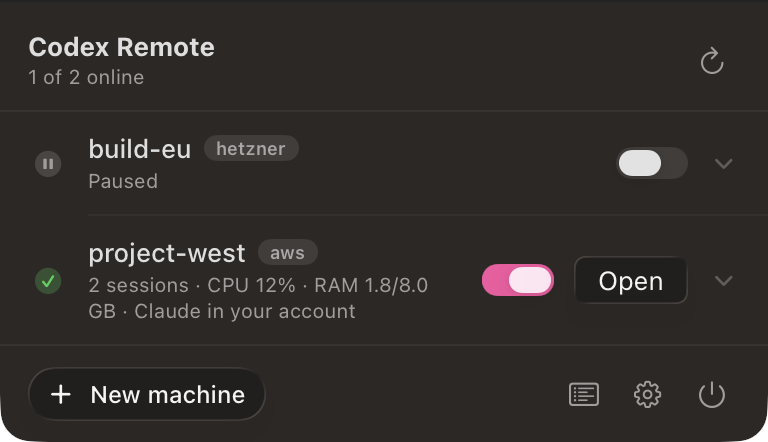
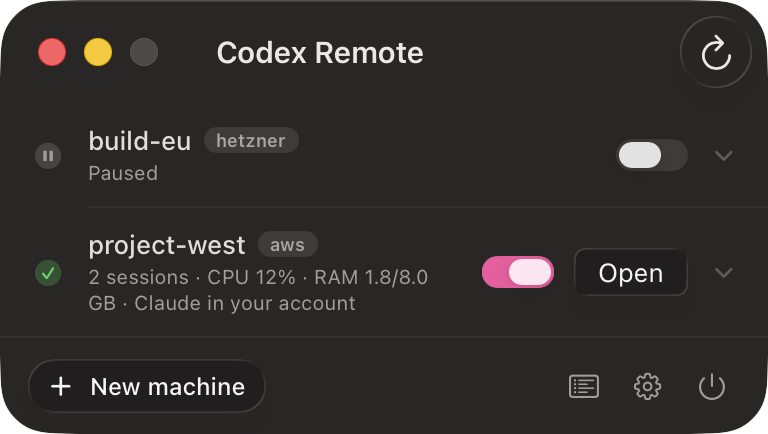
Use native title bar in standalone panel

diff --git a/site/index.html b/site/index.html
@@ -372,7 +372,7 @@ figcaption b { font-weight: 600; color: var(--ink); }
     </div>
 
     <figure>
-      <img src="img/01-panel.png" width="768" height="442"
+      <img src="img/01-panel.png" width="768" height="434"
            alt="Codex Remote with two sample machines: build-eu on Hetzner is paused; project-west on AWS has two running sessions. The panel shows health, CPU, memory, power controls, and an Open button.">
       <figcaption>
         <b>Figure 1.</b> Every machine in one list, whichever cloud it is on. Status shows
@@ -500,7 +500,7 @@ figcaption b { font-weight: 600; color: var(--ink); }
         </figure>
 
         <figure>
-          <img src="img/02-expanded.png" width="768" height="734"
+          <img src="img/02-expanded.png" width="768" height="726"
                alt="An expanded sample machine row for project-west on AWS, listing its endpoint, SSH alias, address, workspace, server type and Codex version, with buttons to open it in Codex or Claude.">
           <figcaption>
             <b>Figure 3.</b> Everything you would otherwise keep in a note: the SSH alias,
@@ -519,7 +519,7 @@ figcaption b { font-weight: 600; color: var(--ink); }
         </figure>
 
         <figure>
-          <img src="img/05-empty-state.png" width="768" height="868"
+          <img src="img/05-empty-state.png" width="768" height="860"
                alt="The first-run panel shows the app icon, a Connect provider button, the steps to create a machine, and a Copy setup prompt button for an agent to guide setup.">
           <figcaption>
             <b>Figure 5.</b> Start in the app, or copy a prompt into Codex or Claude and let

diff --git a/Sources/CodexRemoteApp/CodexRemoteApp.swift b/Sources/CodexRemoteApp/CodexRemoteApp.swift
@@ -27,15 +27,25 @@ struct CodexRemoteApp: App {
         }
         .menuBarExtraStyle(.window)
 
-        // The same panel as a real window. A menu bar item can be hidden by the user's
+        // The same content as a real window. A menu bar item can be hidden by the user's
         // menu bar manager (Bartender, Ice, a notch), which leaves the app unreachable —
         // and an accessory app has no window for UI automation or a screen recorder to
         // attach to. `CODEX_REMOTE_SHOW_IN_DOCK=1` opens this window at launch.
         Window("Codex Remote", id: CodexRemoteApp.panelWindowID) {
-            MenuBarView()
+            MenuBarView(showsPopoverHeader: false)
                 .environmentObject(state)
                 .frame(width: Theme.popoverWidth)
                 .fixedSize(horizontal: true, vertical: false)
+                .toolbar {
+                    ToolbarItem(placement: .primaryAction) {
+                        Button {
+                            state.refreshFromProviders()
+                        } label: {
+                            Label("Refresh machines", systemImage: "arrow.clockwise")
+                        }
+                        .help("Re-read state from every provider")
+                    }
+                }
         }
         .windowResizability(.contentSize)
         .defaultPosition(.topTrailing)

diff --git a/Sources/CodexRemoteApp/MenuBarView.swift b/Sources/CodexRemoteApp/MenuBarView.swift
@@ -1,13 +1,14 @@
 import SwiftUI
 import CodexRemoteKit
 
-/// The menu bar popover.
+/// Content shared by the menu bar popover and its standalone window.
 ///
 /// The popover's own background is already a system material, so the machine list sits on
 /// it plainly as content. Liquid Glass appears once, on the action bar at the bottom —
 /// that bar is the control layer, and keeping glass to a single grouped container is what
 /// Apple means by using the effect sparingly.
 struct MenuBarView: View {
+    var showsPopoverHeader = true
     @EnvironmentObject private var state: AppState
     @Environment(\.openSettings) private var openSettings
     @Environment(\.openWindow) private var openWindow
@@ -18,9 +19,10 @@ struct MenuBarView: View {
 
     var body: some View {
         VStack(spacing: 0) {
-            header
-
-            Divider().opacity(0.5)
+            if showsPopoverHeader {
+                header
+                Divider().opacity(0.5)
+            }
 
             if state.machines.isEmpty {
                 emptyState

diff --git a/site/img/README.md b/site/img/README.md
@@ -4,9 +4,9 @@ The five numbered PNGs were captured from the debug build of Codex Remote on
 macOS 26.6.2 on 2026-09-28. `CODEX_REMOTE_SCREENSHOT_MODE` supplies local,
 illustrative provider and machine state through `ScreenshotFixtures.swift`;
 the windows are the app's real SwiftUI views. No provider credentials, machines,
-or network requests were used. The main and first-run window title bars were
-cropped, leaving their content untouched. The Providers window retains its
-native title bar and toolbar.
+or network requests were used. The panel, expanded, and first-run captures show
+the native title bar and toolbar. The New machine capture was cropped at the
+title bar; the Providers window retains its native title bar and toolbar.
 
 `app-icon.png` is the 512-pixel export from `Scripts/make-icon.swift`. The same
 generator builds `CodexRemote.icns`, which `Scripts/bundle.sh` installs in the

diff --git a/README.md b/README.md
@@ -55,7 +55,7 @@ Point Codex Remote at your own registry for your own providers, including a home
 OpenTofu ships inside the app — there is nothing to install — and it is why the provider
 list is a list of data files rather than a list of hand-written API clients.
 
-![The Codex Remote menu bar panel: two machines, demo on Hetzner paused and perf-1 on AWS idle, each with a power toggle, and a New machine button.](site/img/01-panel.png)
+![The Codex Remote window: build-eu on Hetzner is paused, while project-west on AWS is running two sessions. Power controls, Open, and New machine are visible.](site/img/01-panel.png)
 
 ![The New machine window: provider, region, size with its monthly price, image, and a toggle for each agent.](site/img/03-new-machine.png)
 
